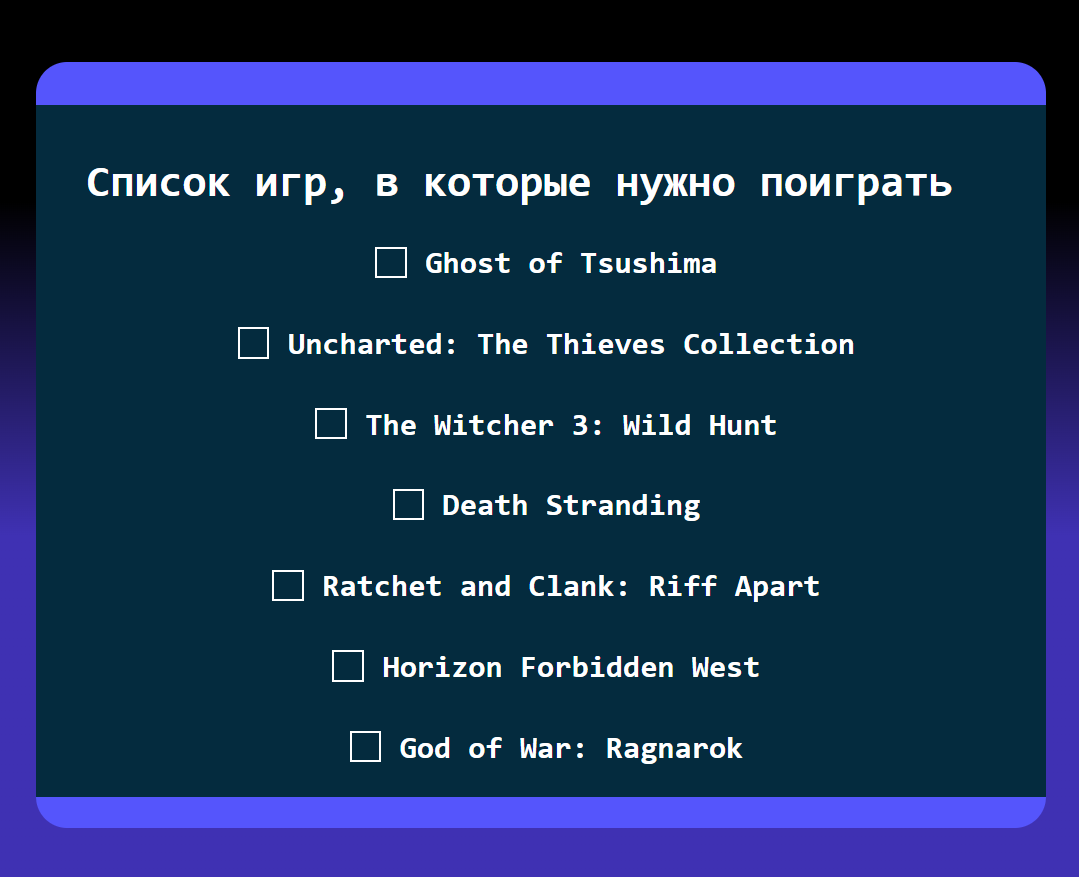
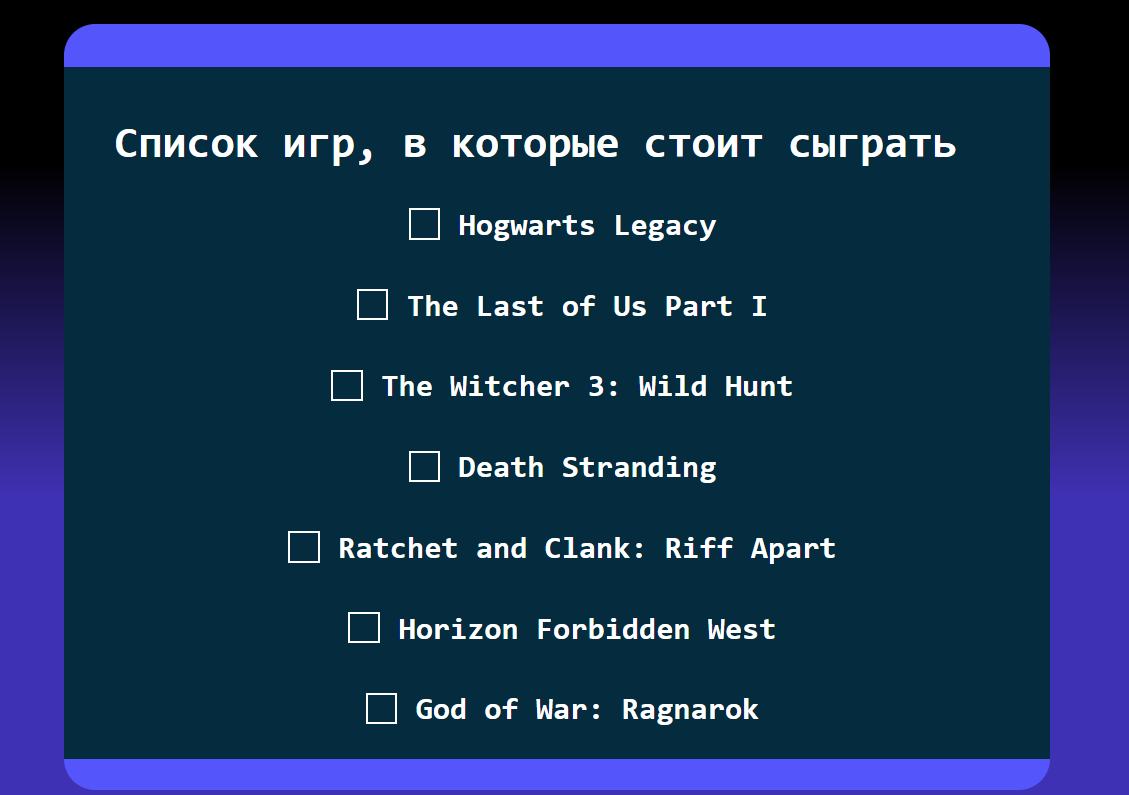
new games site-12
new games site-"Game List example"

diff --git a/sites/site-12/GameList/index.html b/sites/site-12/GameList/index.html
@@ -16,13 +16,13 @@
             <label>
                 <input type="checkbox">
                 <i></i>
-                <span>Ghost of Tsushima</span>
+                <span>Hogwarts Legacy</span>
             </label>
         </li>
         <li><label>
             <input type="checkbox">
             <i></i>
-            <span>Uncharted: The Thieves Collection</span>
+            <span>The Last of Us Part I</span>
         </label>
     </li>
         <li>
